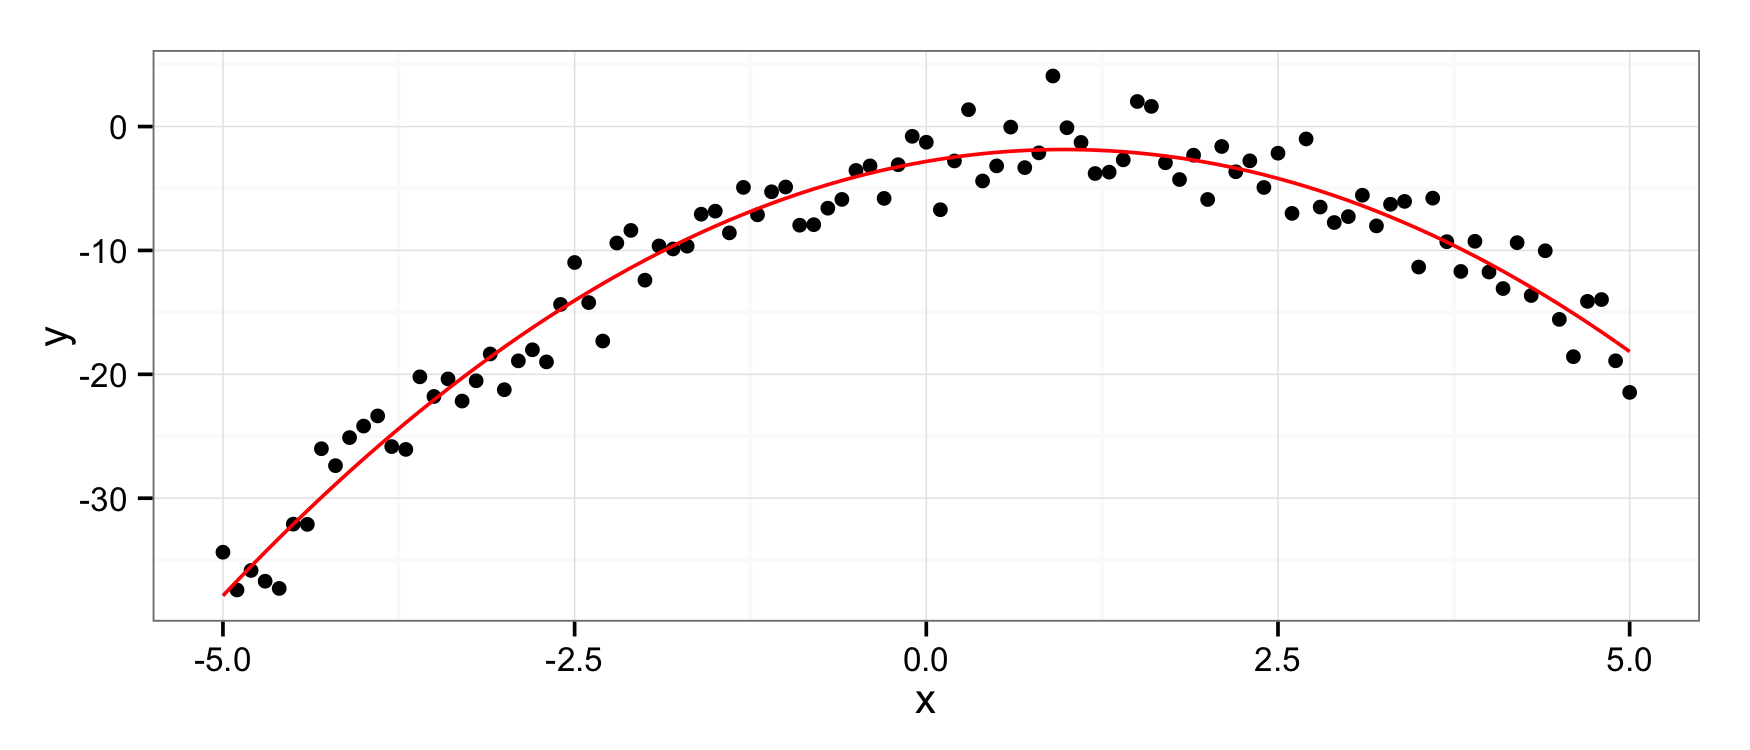
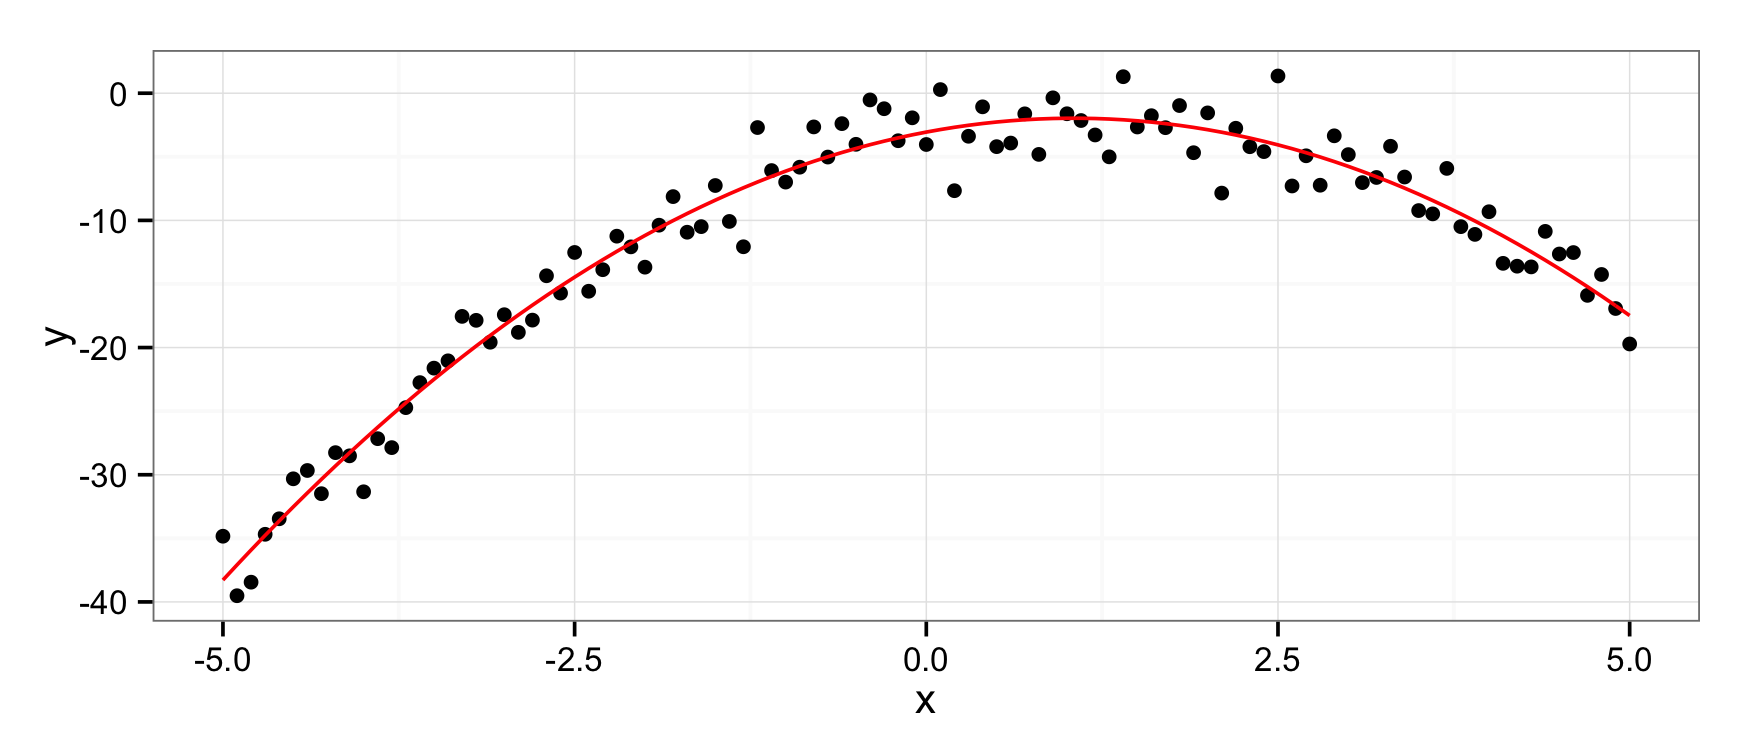
legendre + readme : simplify example

diff --git a/README.md b/README.md
@@ -240,7 +240,7 @@ df <- sapply(s, as.function(legPolys)) %>% t %>% cbind(s, .) %>% as.data.frame
 #> f(x)
 names(df) <- c("x", paste0("P_", 0:N))
 mdf <- melt(df, id = "x")
-qplot(x, value, data = subset(mdf, abs(value) <= 25), geom = "path", color = variable)
+qplot(x, value, data = mdf, geom = "path", color = variable)
 ```
 
 ![](README-unnamed-chunk-13-1.png)
@@ -360,7 +360,7 @@ df$y <- with(df, -x^2 + 2*x - 3 + rnorm(n, 0, 2))
 
 mod <- lm(y ~ x + I(x^2), data = df)
 (p <- mod %>% as.mpoly %>% round)
-#> 1.971 x  -  1.008 x^2  -  2.816
+#> 2.08 x  -  0.993 x^2  -  3.056
 qplot(x, y, data = df) +
   stat_function(fun = as.function(p), colour = 'red')
 #> f(x)
